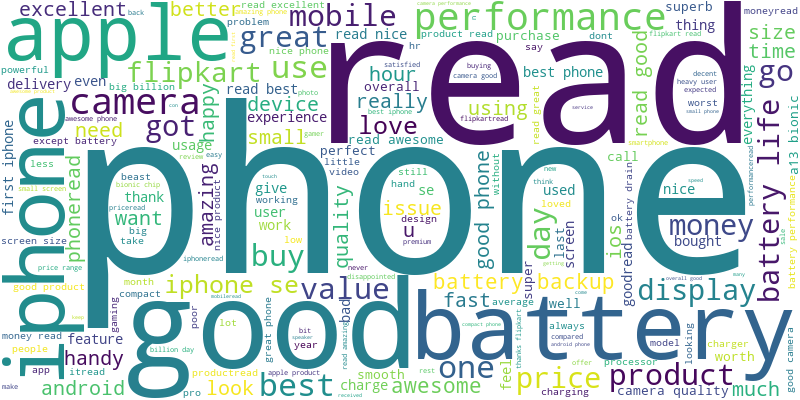
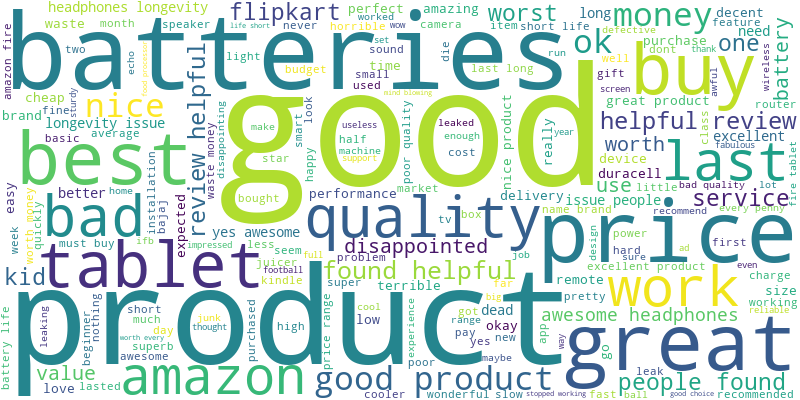
amelioration word cloud

diff --git a/web_masterC-2/templates/result.html b/web_masterC-2/templates/result.html
@@ -30,11 +30,21 @@
       </h1>
       <div class="result__container">
 
-  
+    
+        
+        
+        
         <div class="result__content">
           <div class="result__item">
-            <h2 class="result__item-title">Word Cloud</h2>
-            <img src="{{ url_for('static', filename='wordcloud.png') }}" alt="Word Cloud">
+            <h3>Word Cloud - Sentiments Positifs</h3>
+            <img src="{{ url_for('static', filename='wordcloud_postive.png') }}" alt="Word Cloud">
+            
+            <h3>Word Cloud - Sentiments Négatifs</h3>
+            <img src="{{ url_for('static', filename='wordcloud_negative.png') }}" alt="Word Cloud">
+            
+            <h3>Word Cloud - Tous les Mots</h3>
+            <img src="{{ url_for('static', filename='wordcloud_all.png') }}" alt="Word Cloud">
+            
           </div>
   
           <div class="result__item">

diff --git a/web_masterC-2/app.py b/web_masterC-2/app.py
@@ -23,8 +23,12 @@ lemmatizer = WordNetLemmatizer()
 # Get the absolute path of the directory where the Flask application is located
 app_dir = os.path.dirname(os.path.abspath(__file__))
 # Specify the relative file paths within the static folder
-wordcloud_filename = os.path.join(app_dir, 'static', 'wordcloud.png')
+wordcloud_all_filename = os.path.join(app_dir, 'static', 'wordcloud_all.png')
+wordcloud_negative_filename = os.path.join(app_dir, 'static', 'wordcloud_negative.png')
+wordcloud_positive_filename= os.path.join(app_dir, 'static', 'wordcloud_postive.png')
 pie_chart_filename = os.path.join(app_dir, 'static', 'pie_chart.png')
+
+
 def preprocess_text(text):
     if isinstance(text, str):  # Check if text is a valid string
         text = text.lower()
@@ -45,23 +49,49 @@ vectorizer = pickle.load(open('./System/ia/ia_models/tfidf_vectorizer.pkl', 'rb'
 
 
 def generate_wordcloud(data):
-    # Concaténer les valeurs uniques de la colonne 'Review' en une seule chaîne de caractères
-    text = ' '.join(data['Comment'].dropna().astype(str).unique().tolist())
+    
+    sentiment_mapping = {
+        'very negative': 1,
+        'negative': 2,
+        'neutral': 3,
+        'positive': 4,
+        'very positive': 5
+    }
 
-    # Prétraitement du texte
-    preprocessed_text = preprocess_text(text)
+    data['Sentiment'] = data['Sentiment'].map(sentiment_mapping)
+    # Prétraitement des textes pour les sentiments positifs
+    positive_text = ' '.join(data[data['Sentiment'].astype(int) >= 4]['Review'].dropna().astype(str).unique().tolist())
+    
+    preprocessed_positive_text = preprocess_text(positive_text)
 
-    # Créer l'objet WordCloud
-    wordcloud = WordCloud(width=800, height=400, background_color='white').generate(preprocessed_text)
+    # Prétraitement des textes pour les sentiments négatifs
+    negative_text = ' '.join(data[data['Sentiment'].astype(int) <= 2]['Review'].dropna().astype(str).unique().tolist())
 
-    # Sauvegarder le nuage de mots en tant qu'image
-  
-    wordcloud.to_file(wordcloud_filename)
+    preprocessed_negative_text = preprocess_text(negative_text)
+
+    # Prétraitement des textes pour tous les mots
+    all_text = ' '.join(data['Review'].dropna().astype(str).unique().tolist())
+    preprocessed_all_text = preprocess_text(all_text)
+
+    # Création des objets WordCloud
+    wordcloud_positive = WordCloud(width=800, height=400, background_color='white').generate(preprocessed_positive_text)
+    wordcloud_negative = WordCloud(width=800, height=400, background_color='white').generate(preprocessed_negative_text)
+    wordcloud_all = WordCloud(width=800, height=400, background_color='white').generate(preprocessed_all_text)
+
+    # Sauvegarde des nuages de mots en tant qu'images
+
+
+    wordcloud_positive.to_file(wordcloud_positive_filename)
+    wordcloud_negative.to_file(wordcloud_negative_filename)
+    wordcloud_all.to_file(wordcloud_all_filename)
+
+    return wordcloud_positive_filename, wordcloud_negative_filename, wordcloud_all_filename
+
 
 
 def generate_sentiment_pie_chart(data):
     # Prétraitement du texte
-    data['processed_text'] = data['Comment'].apply(preprocess_text)
+    data['processed_text'] = data['Review'].apply(preprocess_text)
 
     # Transformation du texte en vecteurs avec le TfidfVectorizer
     X_vectors = vectorizer.transform(data['processed_text'])
@@ -81,7 +111,7 @@ def generate_sentiment_pie_chart(data):
     sizes = sentiment_counts.values
 
     colors = ['#00ff00', '#66ff66', 'gray', '#ff6666', '#ff0000']
-    explode = (0.1, 0, 0, 0, 0)
+    explode = (0, 0, 0, 0, 0)
 
     plt.pie(sizes, explode=explode, labels=labels, colors=colors, autopct='%1.1f%%', startangle=90)
     plt.axis('equal')
